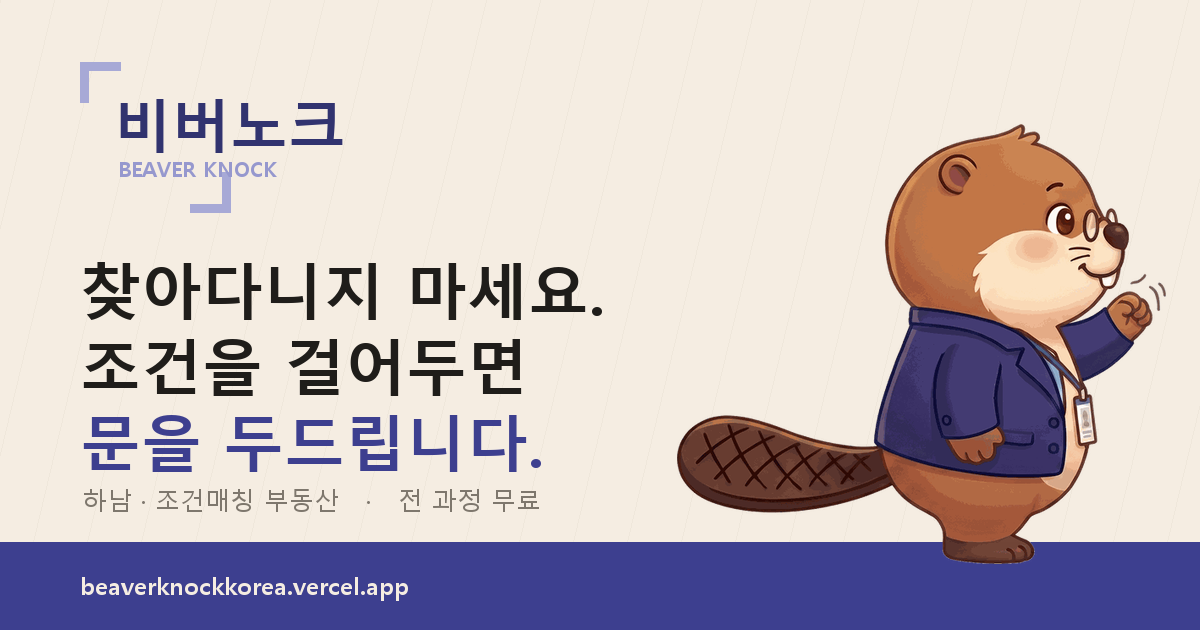
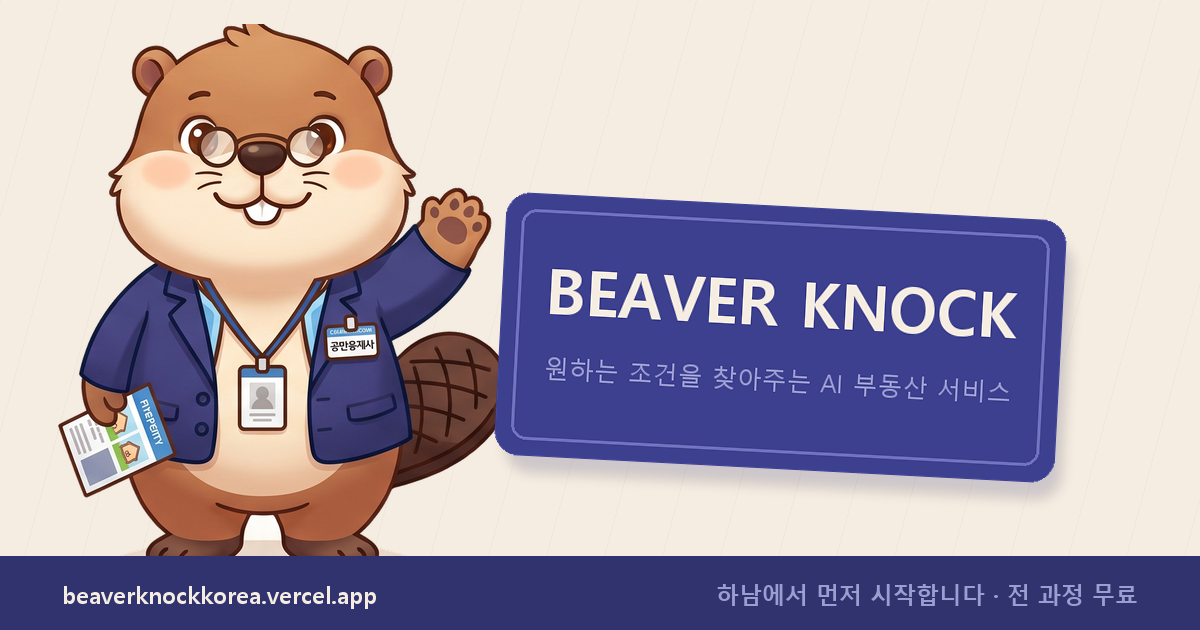
선택할 때마다 화면이 위로 튀던 문제 수정 · OG 이미지 판넬 구도로 교체
render() 가 매번 scrollTop 을 0으로 되돌렸는데 #app 에 scroll-behavior:smooth 가 걸려 있어, 칩 하나 고를 때마다 화면이 위로 스르륵 올라갔다. 같은 화면을 다시 그릴 때는 보던 위치를 지키고, 화면이 바뀔 때만 맨 위로 간다. 복원은 즉시 이동이라 눈에 띄지 않는다.

diff --git a/index.html b/index.html
@@ -637,7 +637,7 @@ const S = {
   scope:JSON.parse(JSON.stringify(SCOPE_DEFAULT)),
   myprops:JSON.parse(JSON.stringify(SEED_MYPROP)),
   inboxCond:'c1', modal:null, form:{}, timer:null, timeLeft:900, safeNo:null, sentAddr:{}, matched:0,
-  vtimer:null, vsec:180, geo:null, geoState:'idle', geoTried:false, saved:false,
+  vtimer:null, vsec:180, geo:null, geoState:'idle', geoTried:false, saved:false, lastRoute:null,
   user:null, afterLogin:null, loginTab:'sns', email:'', pw:'', pw2:'', signup:false,
 };
 
@@ -3231,8 +3231,19 @@ function render(){
   else if(h==='#/partner/listing/new') html = V['#/partner/listing/new']();
   else if(h.startsWith('#/partner/listing/')) html = V['#/partner/listing'](parts[3]);
   else html = (V[h] || V['#/'])();
-  $('#app').innerHTML = html + modalHTML();
-  $('#app').scrollTop = 0;
+  /* 칩 하나 고를 때마다 render() 가 다시 도는 구조라,
+     여기서 무조건 맨 위로 올리면 길게 스크롤한 폼에서 화면이 튄다.
+     화면이 실제로 바뀔 때만 위로 올리고, 같은 화면이면 보던 위치를 지킨다. */
+  const app = $('#app');
+  const keep = (S.lastRoute === h) ? app.scrollTop : 0;
+  app.innerHTML = html + modalHTML();
+  /* #app 에 scroll-behavior:smooth 가 걸려 있어, 그냥 넣으면 위치를 되돌리는 과정이
+     '스르륵' 애니메이션으로 보인다. 이 한 번만 즉시 이동으로 바꾼다. */
+  const sb = app.style.scrollBehavior;
+  app.style.scrollBehavior = 'auto';
+  app.scrollTop = keep;
+  app.style.scrollBehavior = sb;
+  S.lastRoute = h;
   // 툴바 역할 하이라이트
   $$('#role button').forEach(b=>{ const t=b.dataset.go;
     b.classList.toggle('on', t==='#/ops'? h.startsWith('#/ops') : t==='#/partner'? h.startsWith('#/partner') : (!h.startsWith('#/partner') && !h.startsWith('#/ops'))); });
